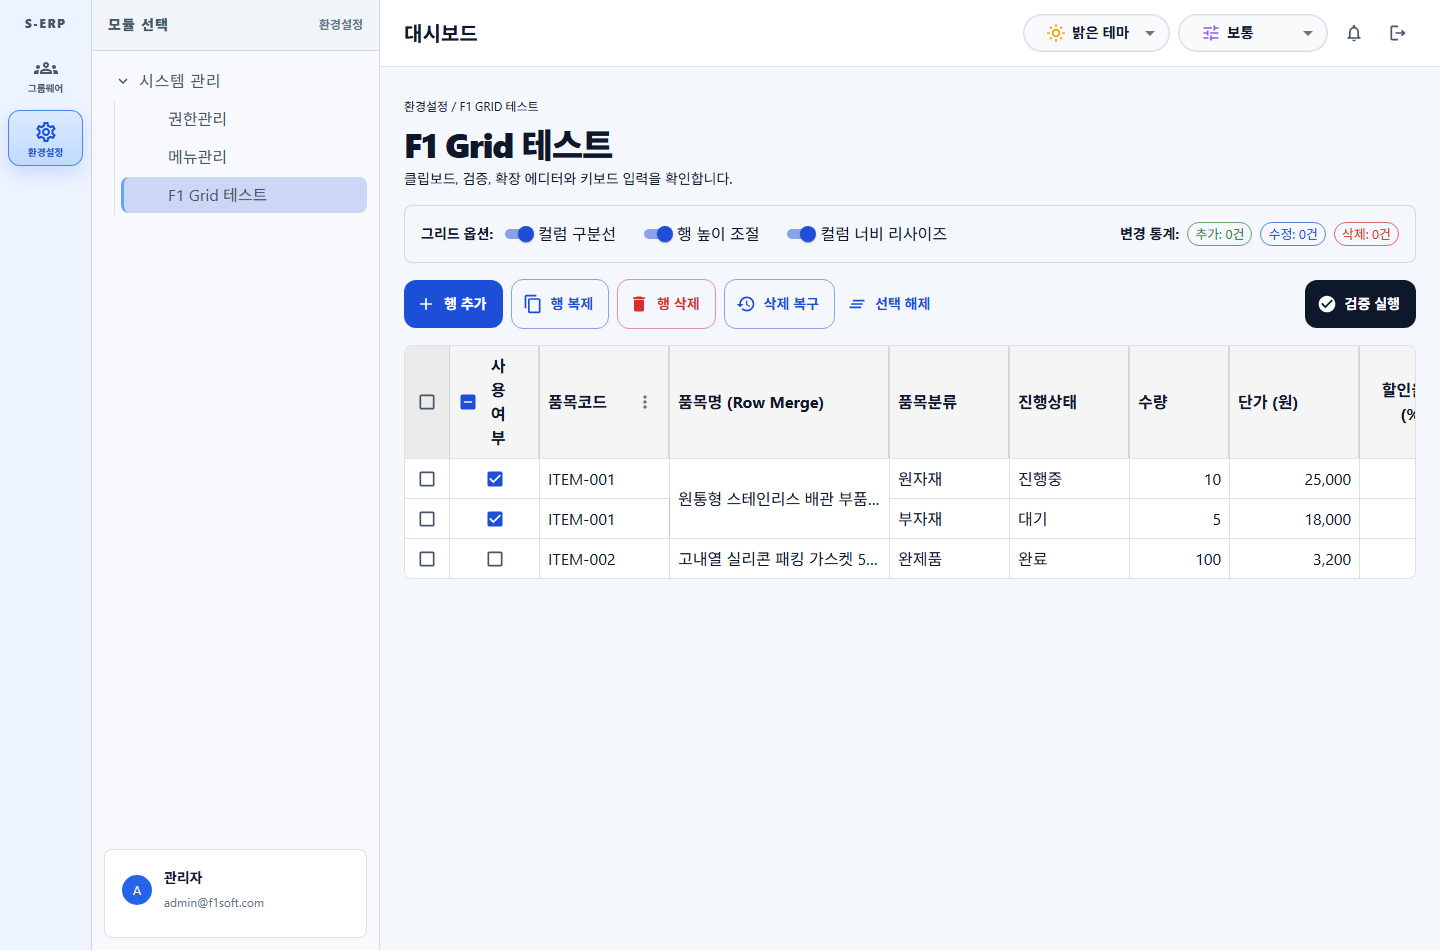
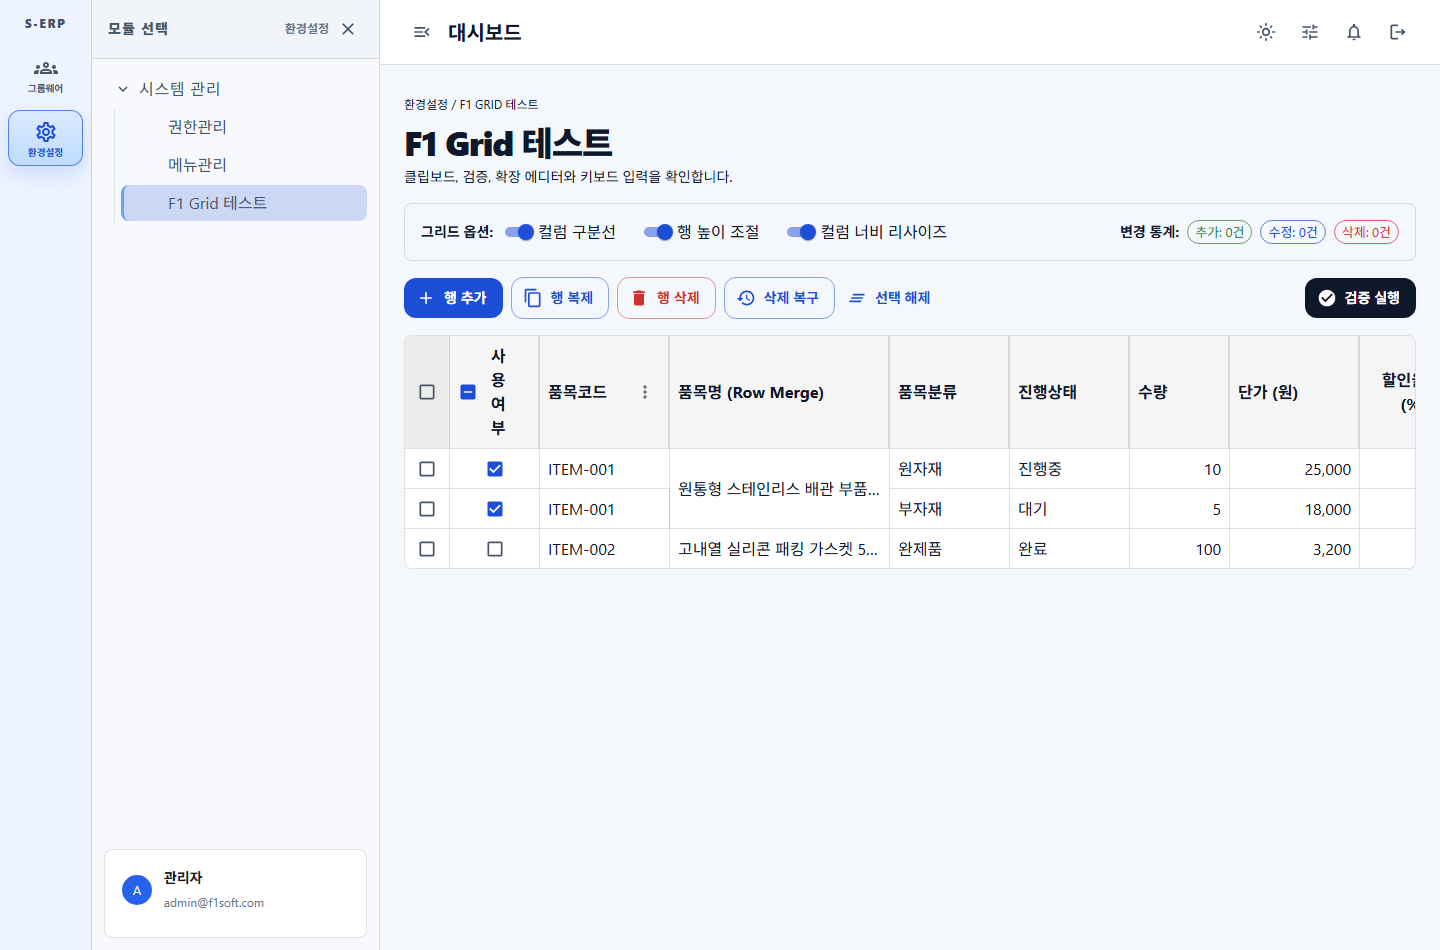
f1-gird 락기능

diff --git a/frontend/tests/f1-grid.test.tsx b/frontend/tests/f1-grid.test.tsx
@@ -6,7 +6,9 @@ import {
   screen,
   waitFor,
 } from '@testing-library/react';
+import { ThemeProvider } from '@mui/material/styles';
 import { describe, expect, it } from 'vitest';
+import { createAppTheme } from '../src/theme/theme';
 import {
   addGridRow,
   createGridData,
@@ -1213,6 +1215,93 @@ describe('F1-GRID column pin', () => {
         getComputedStyle(screen.getByRole('columnheader', { name: /코드/ }))
           .position,
       ).not.toBe('sticky');
+    });
+  });
+
+  it('keeps pinned header and body cells visually above scrolling cells', async () => {
+    render(<F1Grid rows={rows} columns={columns} rowKey="id" />);
+
+    fireEvent.click(screen.getByRole('button', { name: '코드 컬럼 메뉴' }));
+    fireEvent.click(screen.getByRole('menuitem', { name: '왼쪽 고정' }));
+
+    await waitFor(() => {
+      const pinnedHeader = screen.getByRole('columnheader', { name: /코드/ });
+      const pinnedCell = screen.getByRole('gridcell', { name: 'DASH' });
+
+      expect(pinnedHeader).toHaveStyle({
+        backgroundColor: 'rgb(232, 236, 244)',
+        zIndex: '3',
+      });
+      expect(pinnedCell).toHaveStyle({
+        backgroundColor: 'rgb(255, 255, 255)',
+        zIndex: '2',
+      });
+      expect(pinnedCell).toHaveStyle({
+        boxShadow: expect.stringContaining('inset'),
+      });
+    });
+  });
+
+  it('keeps the row-selection header above a pinned column header', async () => {
+    render(<F1Grid rows={rows} columns={columns} rowKey="id" />);
+
+    fireEvent.click(screen.getByRole('button', { name: '코드 컬럼 메뉴' }));
+    fireEvent.click(screen.getByRole('menuitem', { name: '왼쪽 고정' }));
+
+    await waitFor(() => {
+      expect(
+        screen.getByRole('columnheader', { name: '전체 행 선택' }),
+      ).toHaveStyle({
+        backgroundColor: 'rgb(232, 236, 244)',
+        zIndex: '4',
+      });
+    });
+  });
+
+  it('keeps row-selection cells above pinned body cells', async () => {
+    render(<F1Grid rows={rows} columns={columns} rowKey="id" />);
+
+    fireEvent.click(screen.getByRole('button', { name: '코드 컬럼 메뉴' }));
+    fireEvent.click(screen.getByRole('menuitem', { name: '왼쪽 고정' }));
+
+    await waitFor(() => {
+      const selectionCheckbox = screen.getByLabelText('dashboard 행 선택');
+      expect(selectionCheckbox.closest('.MuiBox-root')).toHaveStyle({
+        zIndex: '3',
+      });
+    });
+  });
+
+  it('keeps selected row-selection cells opaque above scrolling cells', async () => {
+    render(<F1Grid rows={rows} columns={columns} rowKey="id" />);
+
+    fireEvent.click(screen.getByRole('button', { name: '코드 컬럼 메뉴' }));
+    fireEvent.click(screen.getByRole('menuitem', { name: '왼쪽 고정' }));
+    fireEvent.click(screen.getByLabelText('dashboard 행 선택'));
+
+    await waitFor(() => {
+      expect(
+        screen.getByLabelText('dashboard 행 선택').closest('.MuiBox-root'),
+      ).toHaveStyle({
+        backgroundColor: 'rgb(232, 238, 252)',
+      });
+    });
+  });
+
+  it('uses a dark opaque background for pinned headers in dark mode', async () => {
+    render(
+      <ThemeProvider theme={createAppTheme('dark')}>
+        <F1Grid rows={rows} columns={columns} rowKey="id" />
+      </ThemeProvider>,
+    );
+
+    fireEvent.click(screen.getByRole('button', { name: '코드 컬럼 메뉴' }));
+    fireEvent.click(screen.getByRole('menuitem', { name: '왼쪽 고정' }));
+
+    await waitFor(() => {
+      expect(screen.getByRole('columnheader', { name: /코드/ })).toHaveStyle({
+        backgroundColor: 'rgb(28, 36, 50)',
+      });
     });
   });
 });

diff --git a/frontend/src/shared/components/f1-grid/core/GridHeader.tsx b/frontend/src/shared/components/f1-grid/core/GridHeader.tsx
@@ -219,6 +219,7 @@ export function GridHeader<T extends object>({
           minWidth: 'max-content',
           bgcolor: 'action.hover',
           fontWeight: 700,
+          isolation: 'isolate',
         }}
       >
         <Box
@@ -228,8 +229,11 @@ export function GridHeader<T extends object>({
             justifyContent: 'center',
             position: 'sticky',
             left: 0,
-            zIndex: 2,
-            bgcolor: 'action.hover',
+            zIndex: 4,
+            backgroundColor: (theme) =>
+              theme.palette.mode === 'dark'
+                ? 'rgb(28, 36, 50)'
+                : 'rgb(232, 236, 244)',
           }}
         >
           <Checkbox
@@ -280,8 +284,19 @@ export function GridHeader<T extends object>({
                   pinSide === 'right'
                     ? rightOffsets[String(column.field)]
                     : undefined,
-                zIndex: pinSide ? 2 : undefined,
-                bgcolor: pinSide ? 'action.hover' : undefined,
+                zIndex: pinSide ? 3 : undefined,
+                backgroundColor: pinSide
+                  ? (theme) =>
+                      theme.palette.mode === 'dark'
+                        ? 'rgb(28, 36, 50)'
+                        : 'rgb(232, 236, 244)'
+                  : undefined,
+                boxShadow:
+                  pinSide === 'left'
+                    ? '2px 0 4px -2px rgba(0, 0, 0, 0.32)'
+                    : pinSide === 'right'
+                      ? '-2px 0 4px -2px rgba(0, 0, 0, 0.32)'
+                      : undefined,
                 '& .f1-grid-col-menu-btn': {
                   opacity: isMenuOpen ? 1 : 0,
                   transition: 'opacity 0.15s ease-in-out',

diff --git a/frontend/src/shared/components/f1-grid/core/GridCell.tsx b/frontend/src/shared/components/f1-grid/core/GridCell.tsx
@@ -98,13 +98,19 @@ export function GridCell<T extends object>({
         position: pinOffset ? 'sticky' : undefined,
         left: pinOffset?.side === 'left' ? pinOffset.offset : undefined,
         right: pinOffset?.side === 'right' ? pinOffset.offset : undefined,
-        zIndex: pinOffset ? 1 : undefined,
+        zIndex: pinOffset ? 2 : undefined,
         bgcolor: pinOffset
           ? 'background.paper'
           : errorMessage
             ? 'error.lighter'
             : undefined,
-        boxShadow: errorMessage ? 'inset 0 0 0 1px' : undefined,
+        boxShadow: pinOffset
+          ? pinOffset.side === 'left'
+            ? '2px 0 4px -2px rgba(0, 0, 0, 0.32)'
+            : '-2px 0 4px -2px rgba(0, 0, 0, 0.32)'
+          : errorMessage
+            ? 'inset 0 0 0 1px'
+            : undefined,
         color: errorMessage ? 'error.main' : undefined,
         outline: focused ? '2px solid' : 'none',
         outlineColor: 'primary.main',

diff --git a/frontend/src/shared/components/f1-grid/core/GridRow.tsx b/frontend/src/shared/components/f1-grid/core/GridRow.tsx
@@ -150,8 +150,13 @@ export function GridRow<T extends object>({
           borderColor: 'divider',
           position: 'sticky',
           left: 0,
-          zIndex: 1,
-          bgcolor: isSelected ? 'action.selected' : 'background.paper',
+          zIndex: 3,
+          backgroundColor: (theme) =>
+            isSelected
+              ? theme.palette.mode === 'dark'
+                ? 'rgb(30, 48, 80)'
+                : 'rgb(232, 238, 252)'
+              : theme.palette.background.paper,
         }}
       >
         <Checkbox

diff --git a/frontend/src/theme/theme.ts b/frontend/src/theme/theme.ts
@@ -59,8 +59,8 @@ export function createAppTheme(mode: AppThemeMode = 'light') {
             borderRadius: 12,
             textTransform: 'none',
             boxShadow: 'none',
-            paddingTop: 12,
-            paddingBottom: 12,
+            paddingTop: 8,
+            paddingBottom: 8,
           },
         },
       },

diff --git a/frontend/src/shared/components/f1-grid/core/GridBody.tsx b/frontend/src/shared/components/f1-grid/core/GridBody.tsx
@@ -154,6 +154,7 @@ export function GridBody<T extends object>({
           )
           .join(' '),
         minWidth: 'max-content',
+        isolation: 'isolate',
       }}
     >
       {visibleRows.map((row, rowIndex) => {

diff --git a/docs/result/20260828/dashboard-sidebar-responsive/20260828_009_대시보드_사이드바_반응형_결과.md b/docs/result/20260828/dashboard-sidebar-responsive/20260828_009_대시보드_사이드바_반응형_결과.md
@@ -8,12 +8,13 @@
 - 모바일에서는 모듈 레일을 유지하고 메뉴 패널을 temporary Drawer로 열고 닫을 수 있다.
 - 메뉴 패널 헤더에 모바일 닫기 버튼을 제공했다.
 - 중앙 콘텐츠 flex item의 `minWidth: 0`과 F1-GRID 내부 수평 스크롤 경계를 유지했다.
+- 우측 상단 테마/화면크기 설정은 알림 버튼과 같은 아이콘 전용 버튼으로 표시하고, 클릭 시 기존 옵션 메뉴를 제공하도록 조정했다.
 
 ## 2. 자동화 검증
 
 | 항목                              | 결과           |
 | --------------------------------- | -------------- |
-| 대시보드 사이드바 Vitest          | 통과: 6 tests  |
+| 대시보드 사이드바/테마 Vitest     | 통과: 7 tests  |
 | 대시보드/F1-GRID 관련 회귀 Vitest | 통과: 65 tests |
 | TypeScript 및 Vite build          | 통과           |
 | 문서 전체 가로 오버플로우         | 세 뷰포트 통과 |
@@ -22,6 +23,7 @@
 
 ```bash
 npm run test -- tests/dashboard-sidebar.test.tsx
+npm run test -- tests/dashboard-sidebar.test.tsx tests/theme-settings.test.tsx
 npm run test -- tests/dashboard-sidebar.test.tsx tests/f1-grid.test.tsx tests/menu-management-f1-grid.test.tsx
 npm run build
 BASE_URL=http://127.0.0.1:4174 node scripts/capture-dashboard-sidebar-responsive.js
@@ -37,6 +39,8 @@ BASE_URL=http://127.0.0.1:4174 node scripts/capture-dashboard-sidebar-responsive
 
 문서와 body의 `scrollWidth`가 모든 뷰포트에서 viewport 폭을 초과하지 않았다.
 
+테마/화면크기 컨트롤은 세 뷰포트에서 모두 `테마 설정`, `화면크기 설정` 아이콘 버튼으로 확인했으며, 기존 텍스트형 combobox는 노출되지 않았다.
+
 종합현황, 문서관리, 권한관리, 메뉴관리, F1-GRID 테스트 화면도 같은 세 뷰포트에서 측정했으며, 모든 화면에서 문서 전체 가로 오버플로우가 발생하지 않았다.
 
 ## 4. 스크린샷
@@ -44,6 +48,8 @@ BASE_URL=http://127.0.0.1:4174 node scripts/capture-dashboard-sidebar-responsive
 - [375px 메뉴 패널](screenshots/375px-menu-panel.png)
 - [768px 자동 접힘](screenshots/768px-menu-panel.png)
 - [1280px 메뉴 패널](screenshots/1280px-menu-panel.png)
+- [375px 헤더 아이콘 컨트롤](screenshots/375px-header-icon-controls.png)
+- [1280px 헤더 아이콘 컨트롤](screenshots/1280px-header-icon-controls.png)
 
 ## 5. 범위
 

diff --git a/docs/superpowers/plans/2026-08-28-compact-button-size.md b/docs/superpowers/plans/2026-08-28-compact-button-size.md
@@ -1,0 +1,41 @@
+# ERP 공통 버튼 크기 축소 Implementation Plan
+
+> **For agentic workers:** REQUIRED SUB-SKILL: Use superpowers:subagent-driven-development (recommended) or superpowers:executing-plans to implement this plan task-by-task. Steps use checkbox (`- [ ]`) syntax for tracking.
+
+**Goal:** 프로젝트 테마의 공통 MUI 버튼을 기준보다 작게 조정해 ERP 화면의 공간 점유를 줄인다.
+
+**Architecture:** 기존 `createAppTheme`의 `MuiButton` 전역 스타일을 유지하고 세로 패딩 값만 축소한다. 컴포넌트 구조와 버튼 동작은 변경하지 않는다.
+
+**Tech Stack:** React, TypeScript, MUI, Vitest, Vite
+
+---
+
+### Task 1: 공통 버튼 토큰 축소
+
+**Files:**
+
+- Modify: `frontend/src/theme/theme.ts`의 `MuiButton.styleOverrides.root`
+- Test: `frontend/tests/theme-settings.test.tsx` (기존 테마 설정 회귀 테스트 실행)
+
+- [ ] **Step 1: 기존 테스트 실행**
+
+Run: `npm run test -- tests/theme-settings.test.tsx`
+Expected: 기존 테스트가 통과한다.
+
+- [ ] **Step 2: 공통 버튼 세로 패딩 축소**
+
+`MuiButton.styleOverrides.root`에서 `paddingTop`과 `paddingBottom`을 각각 `12px`에서 `8px`로 변경한다. `borderRadius`, `textTransform`, `boxShadow`, `fontWeight`는 그대로 둔다.
+
+- [ ] **Step 3: 변경된 테스트 실행**
+
+Run: `npm run test -- tests/theme-settings.test.tsx`
+Expected: 테마/화면크기 설정 회귀 테스트가 통과한다.
+
+- [ ] **Step 4: 타입 검사 및 번들 검증**
+
+Run: `npm run build`
+Expected: TypeScript 검사와 Vite 빌드가 성공한다.
+
+- [ ] **Step 5: 브라우저 확인**
+
+대시보드 화면에서 일반 `Button`의 높이가 축소되고 테마/화면크기 `IconButton`의 크기는 유지되는지 확인한다.

diff --git a/docs/result/20260828/f1-grid-responsive-horizontal-scroll/20260828_008_F1-GRID_반응형_수평스크롤_결과.md b/docs/result/20260828/f1-grid-responsive-horizontal-scroll/20260828_008_F1-GRID_반응형_수평스크롤_결과.md
@@ -14,7 +14,10 @@
 - 좁은 중앙 콘텐츠 폭에서 앱 바 제어 영역이 줄바꿈되도록 하고, 900px 미만에서 패딩 및 선택 컨트롤 최소 폭을 줄였다.
 - F1-GRID 루트에 `minWidth: 0` 및 `maxWidth: '100%'`를 적용하고 기존 `overflowX: 'auto'`를 유지했다.
 - 헤더와 본문의 max-content 컬럼 폭은 유지되어, 초과 폭은 F1-GRID 내부 가로 스크롤로 표시된다.
+- 고정 컬럼의 불투명 배경, stacking 순서, 좌우 경계 그림자를 적용해 스크롤 콘텐츠가 고정 영역 위로 겹쳐 보이지 않도록 했다.
+- 고정 헤더는 기존 `action.hover` 배경색을 유지하고, 헤더/본문의 행 선택 체크박스 셀이 고정 컬럼보다 앞에 표시되도록 레이어 순서를 분리했다.
 - F1-GRID 루트의 축소 및 수평 스크롤 속성을 검증하는 Vitest 회귀 테스트를 추가했다.
+- 고정 헤더와 본문 셀의 시각적 레이어링을 검증하는 Vitest 회귀 테스트를 추가했다.
 - Playwright 캡처 스크립트에 768px 뷰포트 측정, 문서/그리드 수평 오버플로우, 계산된 `overflow-x` 검증을 추가했다.
 
 ## 2. 브라우저 검증
@@ -32,6 +35,8 @@
 
 ## 3. 검증 결과
 
-- `npm run test -- tests/f1-grid.test.tsx`: 56개 테스트 통과.
+- `npm run test -- tests/f1-grid.test.tsx`: 59개 테스트 통과.
+- `npm run test`: 85개 테스트 통과.
+- `npm run build`: TypeScript 및 Vite 빌드 성공.
 - `node scripts/capture-f1-grid-full-test.js`: 좁은 뷰포트에서 문서 전체 가로 오버플로우 없음 및 F1-GRID 내부 수평 오버플로우 조건 통과.
-- 변경 파일의 VS Code 진단: 오류 없음.
+- 변경된 소스 파일의 VS Code 진단: 오류 없음.

diff --git a/docs/superpowers/specs/2026-08-28-compact-button-size-design.md b/docs/superpowers/specs/2026-08-28-compact-button-size-design.md
@@ -1,0 +1,21 @@
+# ERP 공통 버튼 크기 축소 설계
+
+## 목표
+
+현재 프로젝트 테마의 공통 `MuiButton` 세로 여백을 줄여 ERP 업무 화면의 정보 밀도를 높인다.
+
+## 범위
+
+- 대상: `frontend/src/theme/theme.ts`의 `MuiButton.styleOverrides.root`
+- 변경: `paddingTop`, `paddingBottom`을 `12px`에서 `8px`로 조정
+- 제외: `IconButton`, 메뉴 항목, 버튼 색상, 글꼴, 모서리, 가로 여백, 동작
+
+## 설계
+
+MUI `ThemeProvider`가 제공하는 공통 `MuiButton` 토큰만 수정한다. 기존 버튼 컴포넌트는 별도 스타일을 덮어쓰지 않는 한 동일하게 약 8px 낮아지며, 아이콘 전용 버튼과 드롭다운 메뉴에는 영향이 없다.
+
+## 검증
+
+- `npm run test -- tests/theme-settings.test.tsx`로 테마 설정 회귀 확인
+- `npm run build`로 타입 검사 및 번들 생성 확인
+- 브라우저에서 대시보드의 일반 버튼 높이와 아이콘 버튼 크기가 의도대로 분리되어 있는지 확인

diff --git a/docs/result/20260828/compact-button-size/20260828_001_compact-button-size-result.md b/docs/result/20260828/compact-button-size/20260828_001_compact-button-size-result.md
@@ -1,0 +1,18 @@
+# ERP 공통 버튼 크기 축소 결과
+
+## 변경 내용
+
+- 대상: `frontend/src/theme/theme.ts`의 `MuiButton` 공통 스타일
+- `paddingTop`: `12px` -> `8px`
+- `paddingBottom`: `12px` -> `8px`
+- 아이콘 버튼, 메뉴 항목, 버튼 동작 및 기타 테마 값은 변경하지 않음
+
+## 검증 결과
+
+- `npm run test -- tests/theme-settings.test.tsx`: 통과
+- `npm run build`: 통과
+- 수정 파일 오류 진단: 오류 없음
+
+## 브라우저 확인
+
+로컬 브라우저에서 대시보드 URL을 열었으나 인증 상태가 없어 로그인 화면으로 이동했다. 개발용 로그인 값 입력 후 로그인 요청이 `로그인 중...` 상태로 대기하여 대시보드의 실제 버튼 렌더링 스크린샷은 생성하지 못했다. 테스트와 빌드 검증은 완료했다.
